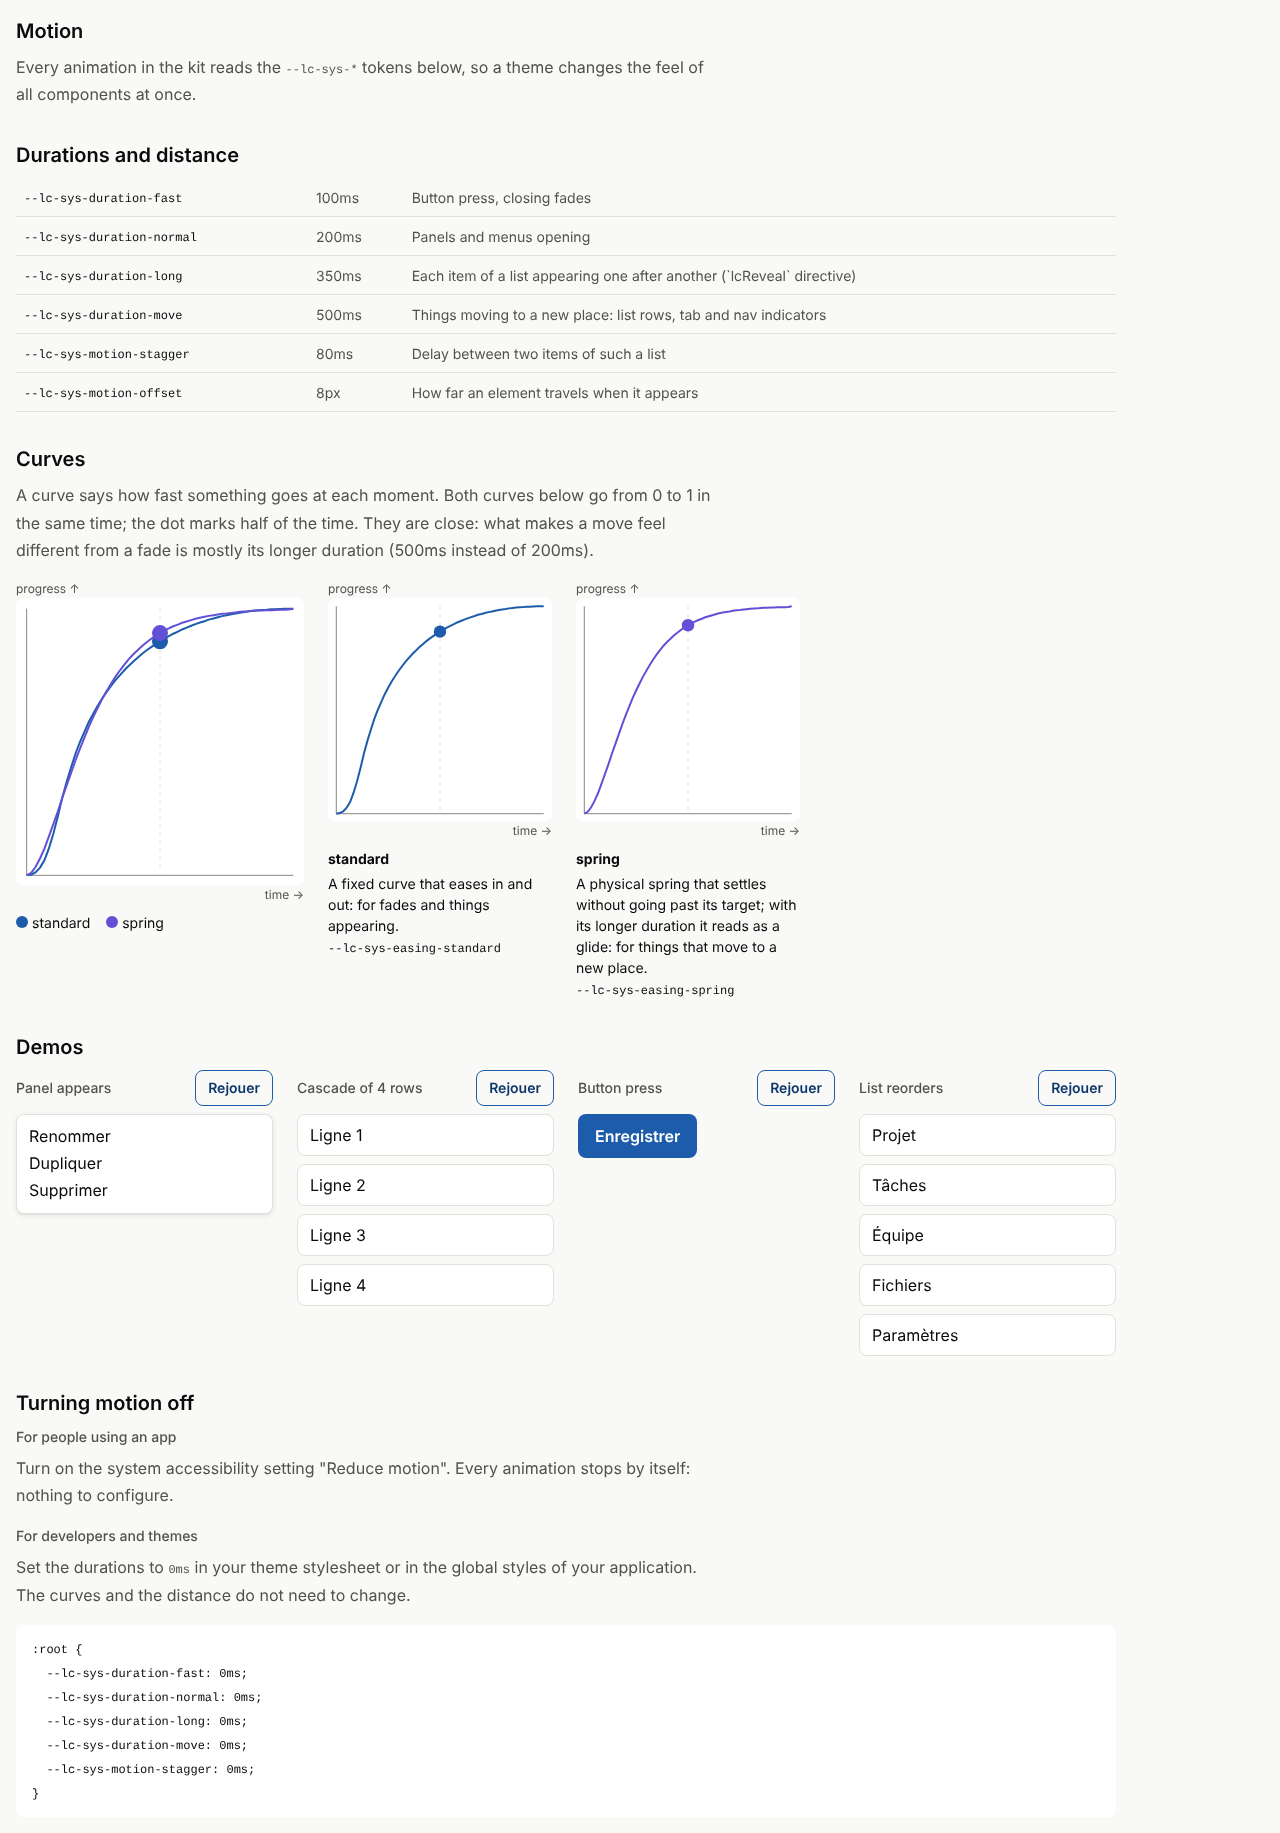
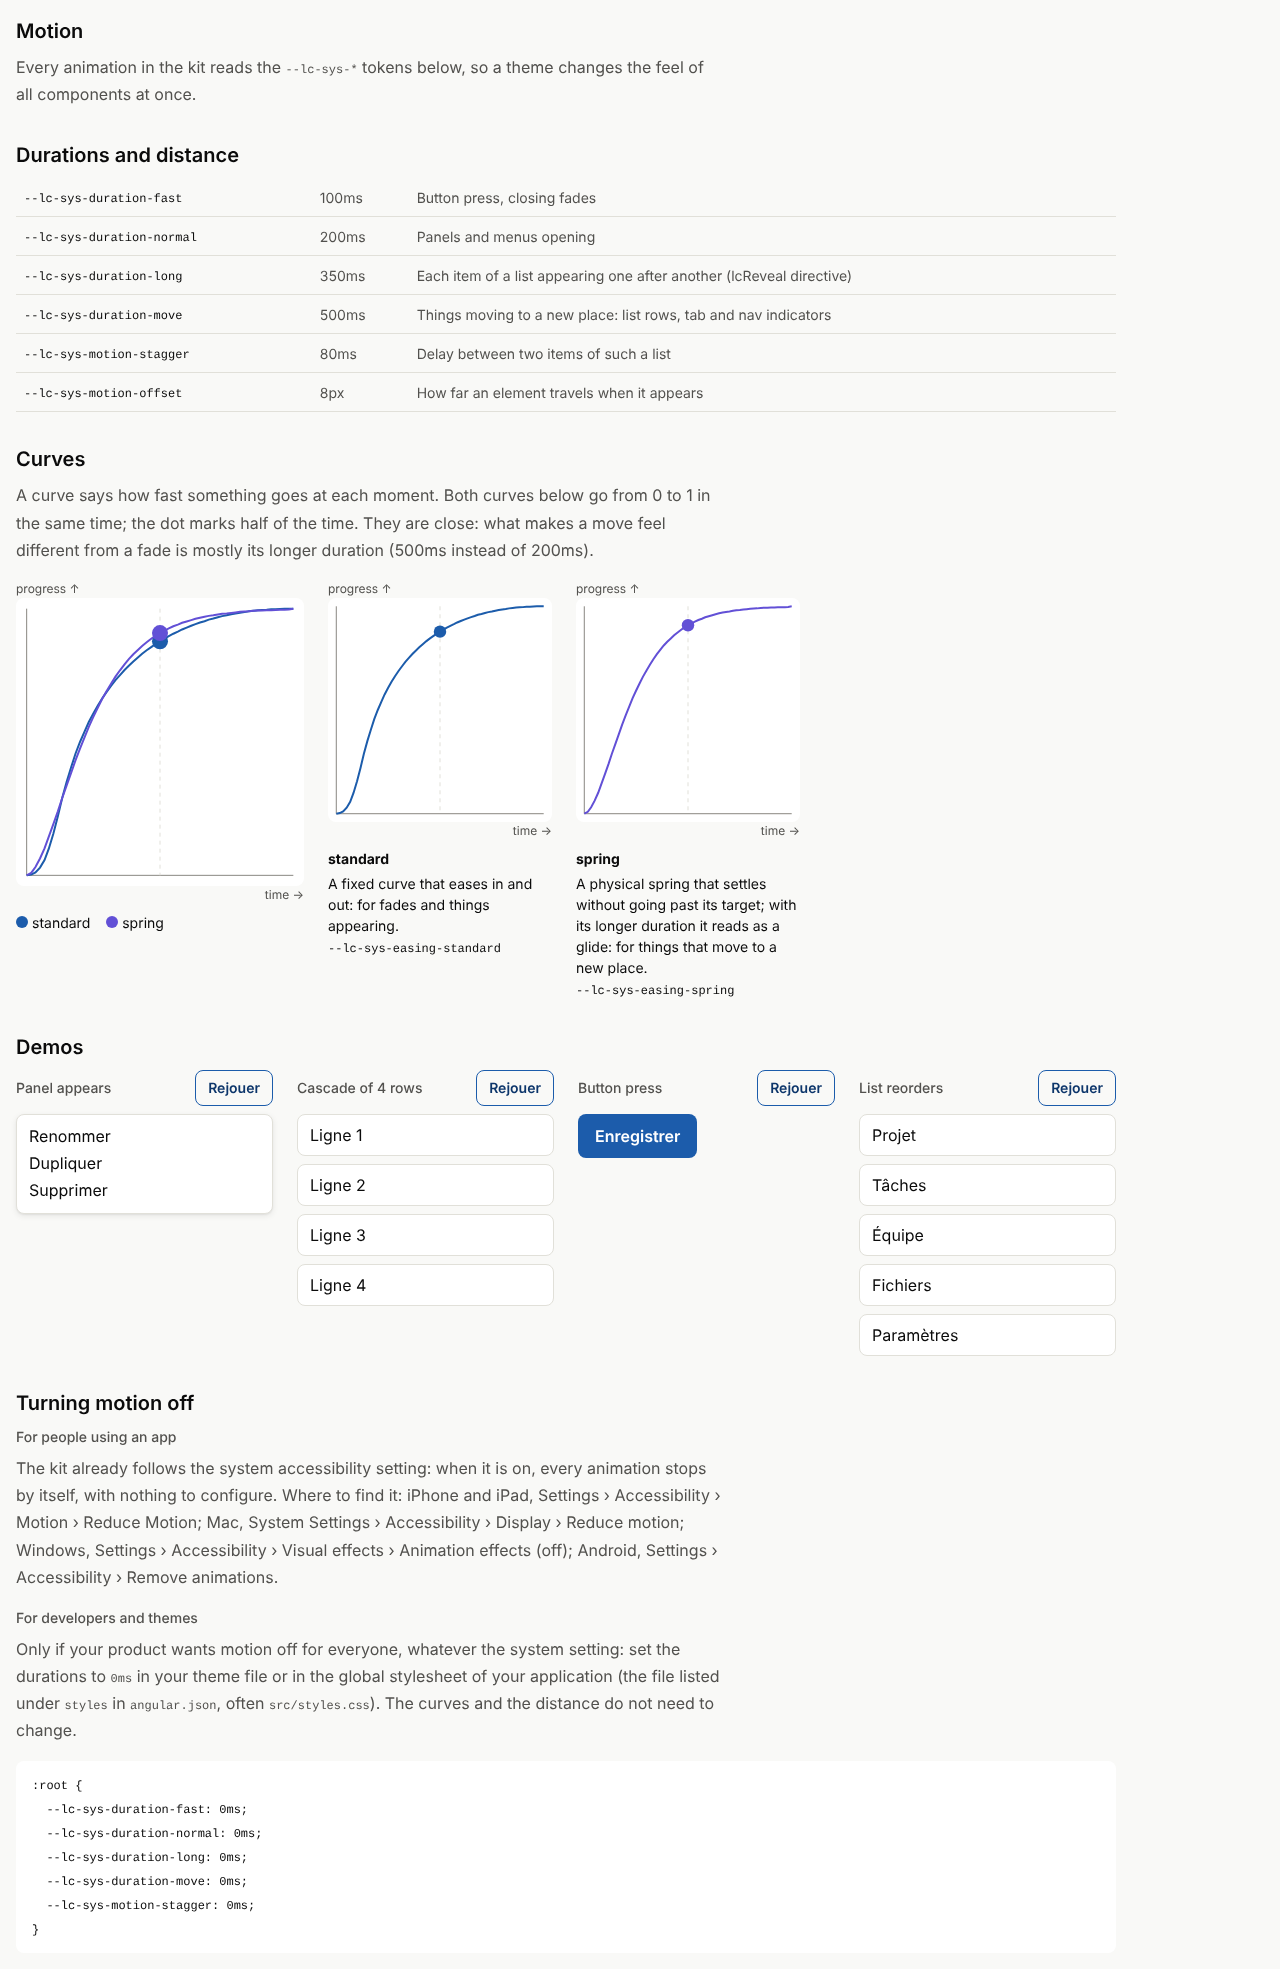
docs(storybook): Foundations/Motion lisible sur téléphone, réglage système localisé, code à 0ms précisé
Claude-Session: https://claude.ai/code/session_011nLZSByMD5Tys8DtCLJcd3

diff --git a/docs/storybook/foundations/foundation-pages.ts b/docs/storybook/foundations/foundation-pages.ts
@@ -267,7 +267,7 @@ export class DocElevationComponent {
 const MOTION_VALUES = [
   { key: 'duration.fast', use: 'Button press, closing fades' },
   { key: 'duration.normal', use: 'Panels and menus opening' },
-  { key: 'duration.long', use: 'Each item of a list appearing one after another (`lcReveal` directive)' },
+  { key: 'duration.long', use: 'Each item of a list appearing one after another (lcReveal directive)' },
   { key: 'duration.move', use: 'Things moving to a new place: list rows, tab and nav indicators' },
   { key: 'motion.stagger', use: 'Delay between two items of such a list' },
   { key: 'motion.offset', use: 'How far an element travels when it appears' },
@@ -371,9 +371,9 @@ const LIST_ITEMS = ['Projet', 'Tâches', 'Équipe', 'Fichiers', 'Paramètres'];
 
     <h2>Turning motion off</h2>
     <h3>For people using an app</h3>
-    <p class="lead">Turn on the system accessibility setting "Reduce motion". Every animation stops by itself: nothing to configure.</p>
+    <p class="lead">The kit already follows the system accessibility setting: when it is on, every animation stops by itself, with nothing to configure. Where to find it: iPhone and iPad, Settings › Accessibility › Motion › Reduce Motion; Mac, System Settings › Accessibility › Display › Reduce motion; Windows, Settings › Accessibility › Visual effects › Animation effects (off); Android, Settings › Accessibility › Remove animations.</p>
     <h3>For developers and themes</h3>
-    <p class="lead">Set the durations to <code>0ms</code> in your theme stylesheet or in the global styles of your application.
+    <p class="lead">Only if your product wants motion off for everyone, whatever the system setting: set the durations to <code>0ms</code> in your theme file or in the global stylesheet of your application (the file listed under <code>styles</code> in <code>angular.json</code>, often <code>src/styles.css</code>).
       The curves and the distance do not need to change.</p>
     <pre><code>{{ offCss }}</code></pre>
   `,
@@ -386,6 +386,12 @@ const LIST_ITEMS = ['Projet', 'Tâches', 'Équipe', 'Fichiers', 'Paramètres'];
     pre { overflow-x: auto; }
     pre code { white-space: pre; }
     td:last-child { min-width: 16rem; }
+    @media (max-width: 40rem) {
+      .scroll table, .scroll tbody, .scroll tr, .scroll td { display: block; }
+      .scroll tr { padding-block: var(--lc-sys-space-2); border-bottom: var(--lc-sys-border-width-thin) solid var(--lc-sys-color-border); }
+      .scroll td { border: 0; padding: 0; min-width: 0; }
+      .scroll td:last-child { white-space: normal; }
+    }
     pre { margin: 0; padding: var(--lc-sys-space-3) var(--lc-sys-space-4); overflow-x: auto; background: var(--lc-sys-color-surface-raised); border-radius: var(--lc-sys-radius-md); }
     .curves { display: flex; flex-wrap: wrap; gap: var(--lc-sys-space-6); }
     figure { margin: 0; width: 14rem; max-width: 100%; }
